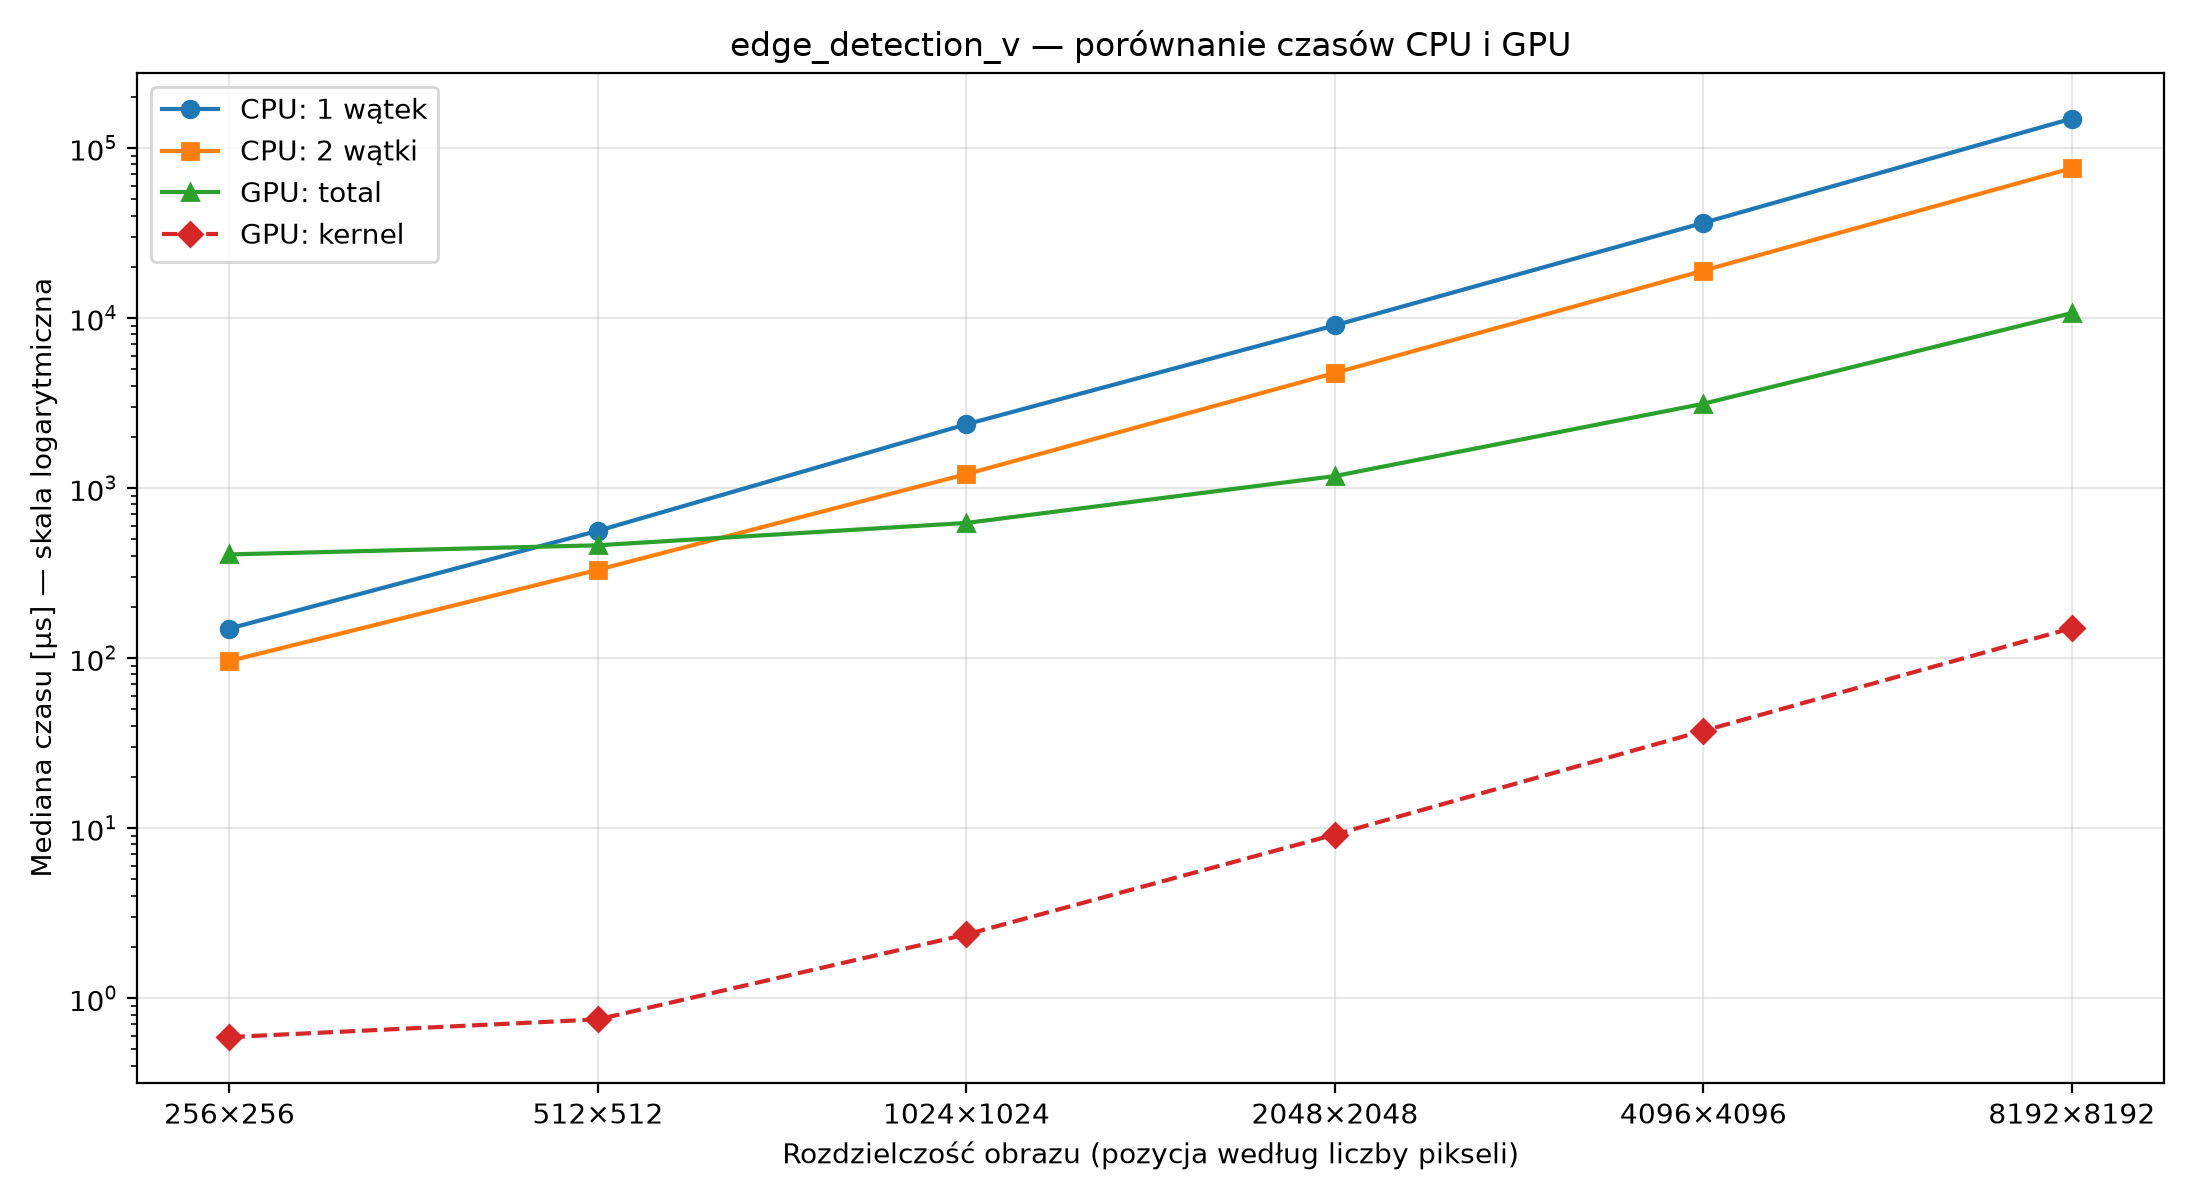
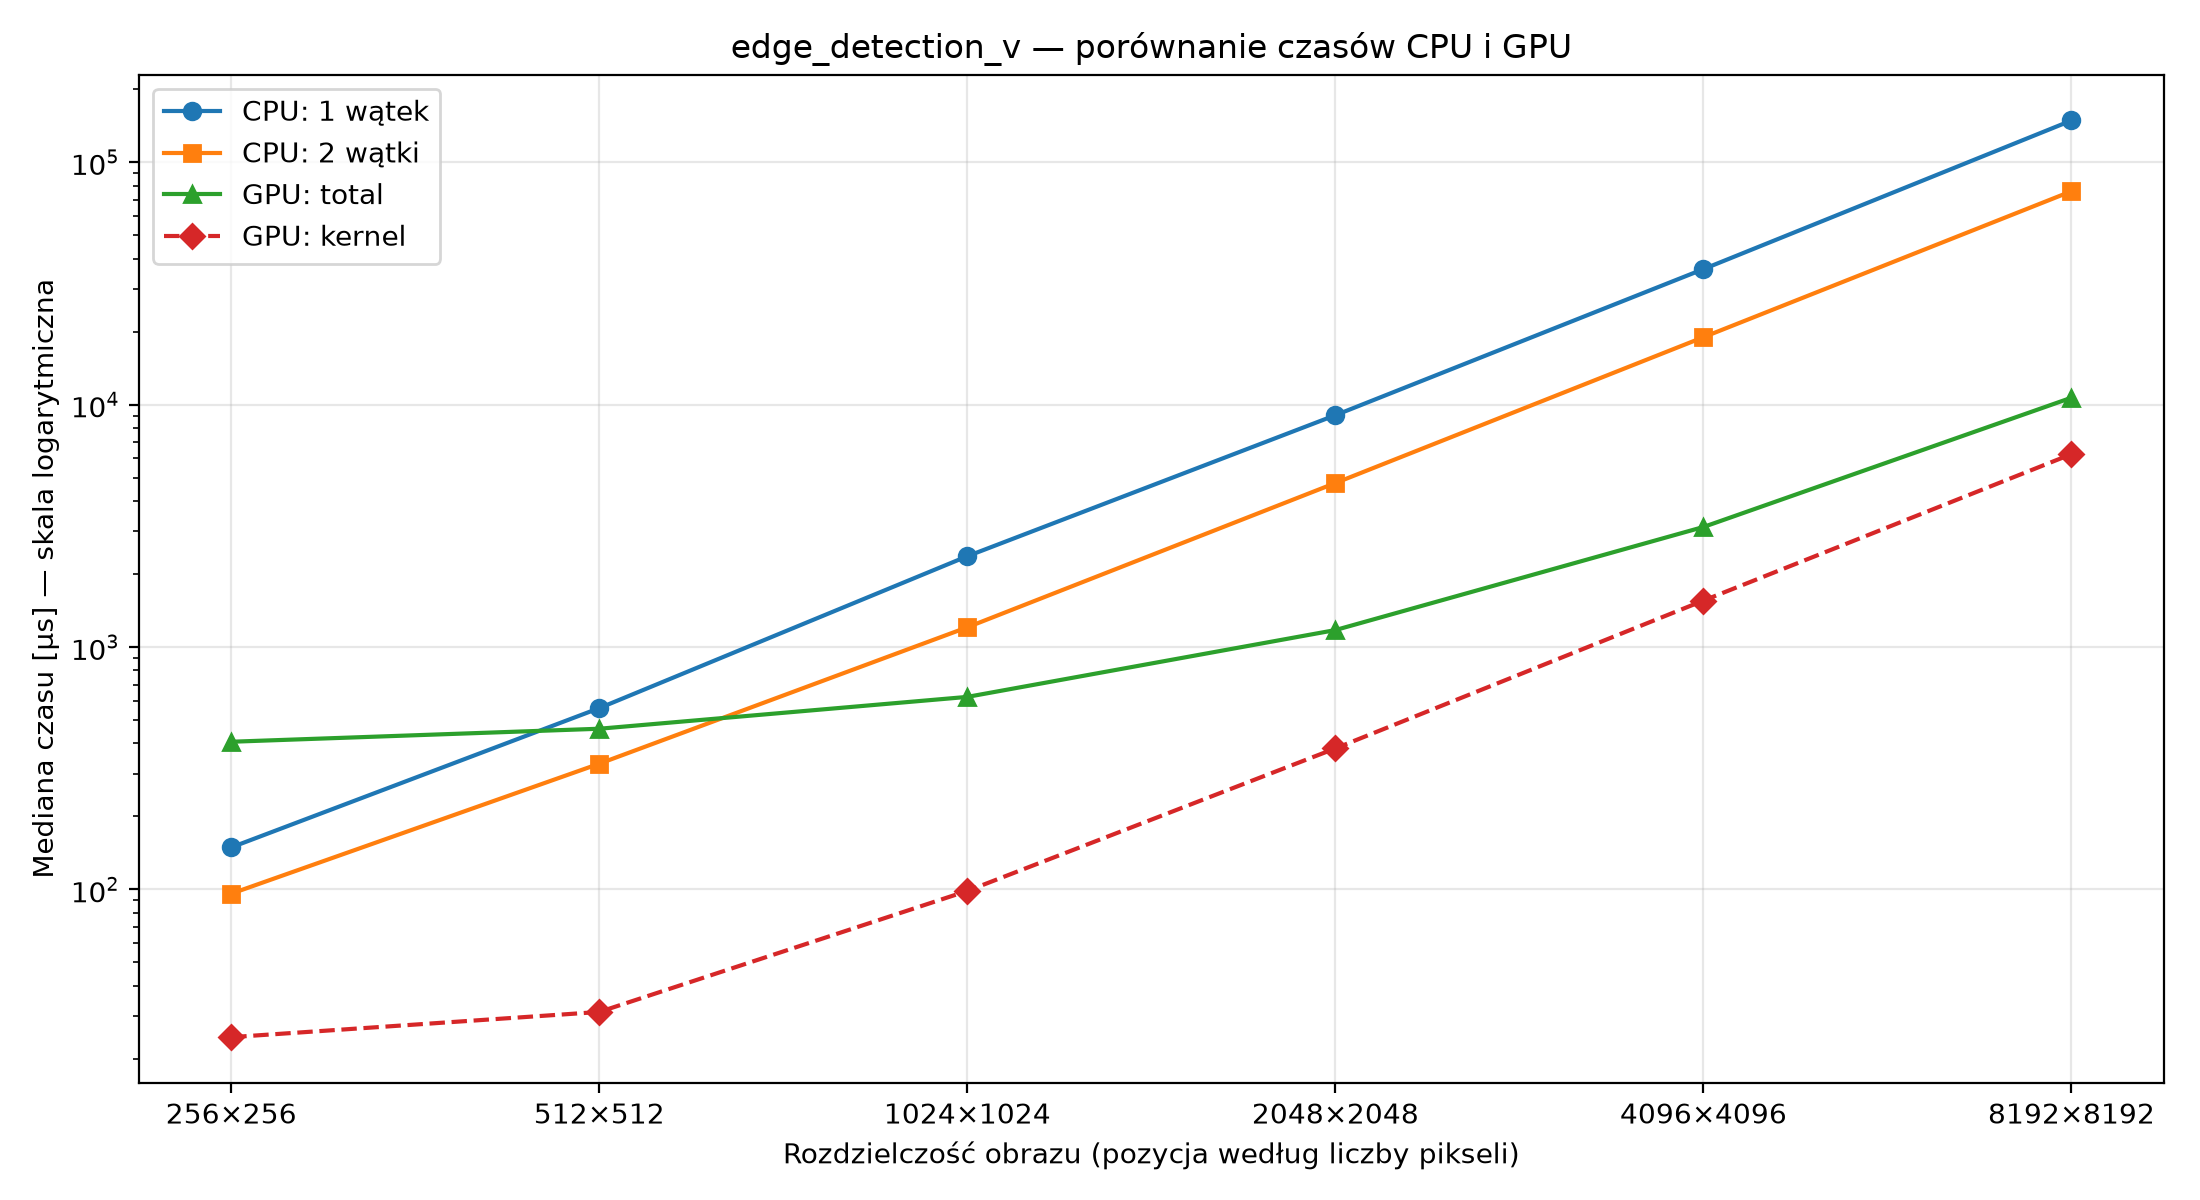
Fix kernel timing on Apple (event timestamps are mach ticks, not ns), correct saved kernel times and regenerate plots. Keep Otsu processing on GPU and benchmark with and without data transfers

diff --git a/src/otsu.cpp b/src/otsu.cpp
@@ -99,11 +99,17 @@ OtsuGPU::OtsuGPU(const Image& image)
         checkCL(error, "clCreateBuffer");
         histogramBuffer = clCreateBuffer(cl.context, CL_MEM_READ_WRITE, 256 * sizeof(cl_uint), nullptr, &error);
         checkCL(error, "clCreateBuffer");
+        thresholdBuffer = clCreateBuffer(cl.context, CL_MEM_READ_WRITE, sizeof(cl_int), nullptr, &error);
+        checkCL(error, "clCreateBuffer");
         outputBuffer = clCreateBuffer(cl.context, CL_MEM_WRITE_ONLY, pixelCount, nullptr, &error);
         checkCL(error, "clCreateBuffer");
         histogramKernel = clCreateKernel(cl.program, "histogramLocalKernel", &error);
         checkCL(error, "clCreateKernel");
         thresholdKernel = clCreateKernel(cl.program, "thresholdKernel", &error);
+        checkCL(error, "clCreateKernel");
+        otsuThresholdKernel = clCreateKernel(cl.program, "otsuThresholdKernel", &error);
+        checkCL(error, "clCreateKernel");
+        clearHistogramKernel = clCreateKernel(cl.program, "clearHistogramKernel", &error);
         checkCL(error, "clCreateKernel");
 
         int Npixels = static_cast<int>(pixelCount);
@@ -113,6 +119,11 @@ OtsuGPU::OtsuGPU(const Image& image)
         checkCL(clSetKernelArg(thresholdKernel, 0, sizeof(cl_mem), &inputBuffer), "clSetKernelArg");
         checkCL(clSetKernelArg(thresholdKernel, 1, sizeof(cl_mem), &outputBuffer), "clSetKernelArg");
         checkCL(clSetKernelArg(thresholdKernel, 2, sizeof(int), &Npixels), "clSetKernelArg");
+        checkCL(clSetKernelArg(thresholdKernel, 3, sizeof(cl_mem), &thresholdBuffer), "clSetKernelArg");
+        checkCL(clSetKernelArg(otsuThresholdKernel, 0, sizeof(cl_mem), &histogramBuffer), "clSetKernelArg");
+        checkCL(clSetKernelArg(otsuThresholdKernel, 1, sizeof(cl_mem), &thresholdBuffer), "clSetKernelArg");
+        checkCL(clSetKernelArg(clearHistogramKernel, 0, sizeof(cl_mem), &histogramBuffer), "clSetKernelArg");
+
     } catch (...) {
         release();
         throw;
@@ -125,32 +136,49 @@ void OtsuGPU::release() {
     if (inputBuffer) clReleaseMemObject(inputBuffer);
     if (histogramBuffer) clReleaseMemObject(histogramBuffer);
     if (outputBuffer) clReleaseMemObject(outputBuffer);
+    if (thresholdBuffer) clReleaseMemObject(thresholdBuffer);
+    if (otsuThresholdKernel) clReleaseKernel(otsuThresholdKernel);
+    if (clearHistogramKernel) clReleaseKernel(clearHistogramKernel);
 }
 
 OtsuGPU::~OtsuGPU() {
     release();
 }
 
-// histogram on GPU -> Otsu threshold on CPU -> thresholding on GPU, the image is sent to the GPU only once
-Histogram OtsuGPU::run(const Image& image, Image& output, cl_event* histogramEvent, cl_event* thresholdEvent) {
-    const size_t localSize = 256;
-    const size_t globalSize = 256*localSize; // 256 work-groups, so every GPU core gets several of them, with only 2 groups most cores stay idle
-    if (image.pixels.size() != pixelCount || output.pixels.size() != pixelCount) {
+// histogram, Otsu threshold and thresholding all on GPU: the image is sent once and only the result comes back
+void OtsuGPU::run(const Image& image, Image& output, cl_event* histogramEvent, cl_event* otsuThresholdEvent, cl_event* thresholdEvent) {
+    upload(image);
+    compute(histogramEvent, otsuThresholdEvent, thresholdEvent);
+    download(output);
+}
+
+void OtsuGPU::upload(const Image& image) {
+    if (image.pixels.size() != pixelCount) {
         throw std::runtime_error("Image size does not match the GPU buffers");
     }
-    std::array<cl_uint, 256> counts{};
     checkCL(clEnqueueWriteBuffer(cl.queue, inputBuffer, CL_TRUE, 0, pixelCount, image.pixels.data(), 0, nullptr, nullptr), "clEnqueueWriteBuffer");
-    checkCL(clEnqueueWriteBuffer(cl.queue, histogramBuffer, CL_TRUE, 0, sizeof(counts), counts.data(), 0, nullptr, nullptr), "clEnqueueWriteBuffer");
-    checkCL(clEnqueueNDRangeKernel(cl.queue, histogramKernel, 1, nullptr, &globalSize, &localSize, 0, nullptr, histogramEvent), "clEnqueueNDRangeKernel");
-    checkCL(clEnqueueReadBuffer(cl.queue, histogramBuffer, CL_TRUE, 0, sizeof(counts), counts.data(), 0, nullptr, nullptr), "clEnqueueReadBuffer"); // CL_TRUE means: dont return from clEnqueueReadBuffer until the readout is done
+}
 
-    Histogram histogram{};
-    std::copy(counts.begin(), counts.end(), histogram.begin());
-    int threshold = calculateOtsuThreshold(histogram);
-    checkCL(clSetKernelArg(thresholdKernel, 3, sizeof(int), &threshold), "clSetKernelArg");
+// only enqueues the work, the queue runs commands in order, so nothing has to wait between the kernels
+void OtsuGPU::compute(cl_event* histogramEvent, cl_event* otsuThresholdEvent, cl_event* thresholdEvent) {
+    const size_t localSize = 256;
+    const size_t globalSize = 256*localSize; // 256 work-groups, so every GPU core gets several of them, with only 2 groups most cores stay idle
+    // the histogram is zeroed on the GPU, so not even the 256 counters are copied from the CPU
+    checkCL(clEnqueueNDRangeKernel(cl.queue, clearHistogramKernel, 1, nullptr, &localSize, nullptr, 0, nullptr, nullptr), "clEnqueueNDRangeKernel");
+    checkCL(clEnqueueNDRangeKernel(cl.queue, histogramKernel, 1, nullptr, &globalSize, &localSize, 0, nullptr, histogramEvent), "clEnqueueNDRangeKernel");
+    checkCL(clEnqueueNDRangeKernel(cl.queue, otsuThresholdKernel, 1, nullptr, &localSize, &localSize, 0, nullptr, otsuThresholdEvent), "clEnqueueNDRangeKernel");
     checkCL(clEnqueueNDRangeKernel(cl.queue, thresholdKernel, 1, nullptr, &pixelCount, nullptr, 0, nullptr, thresholdEvent), "clEnqueueNDRangeKernel");
+}
+
+void OtsuGPU::finish() {
+    checkCL(clFinish(cl.queue), "clFinish"); // waits until the GPU has done everything that was enqueued
+}
+
+void OtsuGPU::download(Image& output) {
+    if (output.pixels.size() != pixelCount) {
+        throw std::runtime_error("Image size does not match the GPU buffers");
+    }
     checkCL(clEnqueueReadBuffer(cl.queue, outputBuffer, CL_TRUE, 0, pixelCount, output.pixels.data(), 0, nullptr, nullptr), "clEnqueueReadBuffer"); // CL_TRUE means: dont return from clEnqueueReadBuffer until the readout is done
-    return histogram;
 }
 
 Image otsuSegmentationGPU(const Image& image) {

diff --git a/tests/otsu_test.cpp b/tests/otsu_test.cpp
@@ -24,21 +24,33 @@ int main(int argc, char* argv[]) {
 
         OtsuGPU gpu(image);
         Image gpuResult = image;
-        Histogram gpuHistogram{};
         cl_event histogramEvent = nullptr;
+        cl_event otsuThresholdEvent = nullptr;
         cl_event thresholdEvent = nullptr;
         std::vector<double> kernelTimes;
-        double gpuTotal = measure([&] { gpuHistogram = gpu.run(image, gpuResult, &histogramEvent, &thresholdEvent); },
+        double gpuTotal = measure([&] { gpu.run(image, gpuResult, &histogramEvent, &otsuThresholdEvent, &thresholdEvent); },
                                   options.repeats, [] {}, [&](int repeat) {
-            double time = kernelTimeUs(histogramEvent) + kernelTimeUs(thresholdEvent);
+            // the three kernels of the algorithm, the tiny kernel that zeroes the histogram is not counted
+            double time = kernelTimeUs(histogramEvent) + kernelTimeUs(otsuThresholdEvent) + kernelTimeUs(thresholdEvent);
             checkCL(clReleaseEvent(histogramEvent), "clReleaseEvent");
+            checkCL(clReleaseEvent(otsuThresholdEvent), "clReleaseEvent");
             checkCL(clReleaseEvent(thresholdEvent), "clReleaseEvent");
             if (repeat >= 0) kernelTimes.push_back(time);
-            if (gpuHistogram != histogram || gpuResult.pixels != cpuResult.pixels) {
+            if (gpuResult.pixels != cpuResult.pixels) {
                 throw std::runtime_error("GPU and CPU Otsu results differ");
             }
         });
         double gpuKernel = median(kernelTimes);
+
+        // the image stays on the GPU: it is sent once before the measurement and the result is read once after it,
+        // so only the three kernels, their launch and the waiting for the GPU are measured
+        gpu.upload(image);
+        double gpuNoCopy = measure([&] { gpu.compute(); gpu.finish(); }, options.repeats);
+        Image gpuNoCopyResult = image; // a fresh image, so the check below really tests what came back from the GPU
+        gpu.download(gpuNoCopyResult);
+        if (gpuNoCopyResult.pixels != cpuResult.pixels) {
+            throw std::runtime_error("GPU without copying and CPU Otsu results differ");
+        }
         int threshold = calculateOtsuThreshold(histogram);
 
         // CPU and GPU results are identical at this point, so one image and one histogram are enough
@@ -58,10 +70,10 @@ int main(int argc, char* argv[]) {
         row << std::setprecision(12) << std::quoted(options.image, '"', '"') << ','
             << image.width << ',' << image.height << ',' << threshold << ','
             << options.threads << ',' << options.repeats << ','
-            << cpu1 << ',' << cpuN << ',' << overheadN << ',' << gpuKernel << ',' << gpuTotal;
-        appendCsv(options.output, "image,width,height,threshold,threads,repeats,cpu_1t_us,cpu_nt_us,overhead_nt_us,gpu_kernel_us,gpu_total_us", row.str());
-        std::cout << "Median CPU1 / CPU" << options.threads << " / GPU total / GPU kernels [us]: "
-                  << cpu1 << " / " << cpuN << " / " << gpuTotal << " / " << gpuKernel << '\n';
+            << cpu1 << ',' << cpuN << ',' << overheadN << ',' << gpuKernel << ',' << gpuTotal << ',' << gpuNoCopy;
+        appendCsv(options.output, "image,width,height,threshold,threads,repeats,cpu_1t_us,cpu_nt_us,overhead_nt_us,gpu_kernel_us,gpu_total_us,gpu_no_copy_us", row.str());
+        std::cout << "Median CPU1 / CPU" << options.threads << " / GPU total / GPU without copying / GPU kernels [us]: "
+                  << cpu1 << " / " << cpuN << " / " << gpuTotal << " / " << gpuNoCopy << " / " << gpuKernel << '\n';
         return 0;
     } catch (const std::exception& error) {
         std::cerr << error.what() << '\n';

diff --git a/helpers/benchmark_graphs.py b/helpers/benchmark_graphs.py
@@ -18,7 +18,8 @@ def plot_benchmarks(default_file, title, parameters=(), numeric_parameters=(),
     integer_columns = ["width", "height", "threads", "repeats"]
     time_columns = ["cpu_1t_us", "cpu_nt_us", "gpu_kernel_us", "gpu_total_us"]
     overhead_columns = ["overhead_nt_us"] if "overhead_nt_us" in data.columns else []
-    positive_columns = [*integer_columns, *time_columns]
+    no_copy_columns = ["gpu_no_copy_us"] if "gpu_no_copy_us" in data.columns else []
+    positive_columns = [*integer_columns, *time_columns, *no_copy_columns]
     numeric_columns = [*positive_columns, *overhead_columns, *numeric_parameters]
     data[numeric_columns] = data[numeric_columns].apply(pd.to_numeric)
     if data.empty or data[["image", *parameters]].isna().any().any():
@@ -57,6 +58,9 @@ def plot_benchmarks(default_file, title, parameters=(), numeric_parameters=(),
                     nonpositive_corrected |= (corrected <= 0).any()
         ax.plot(baseline["pixels"], baseline["gpu_total_us"], "^-",
                 label="GPU: zapis, obliczenia i odczyt")
+        if no_copy_columns:
+            ax.plot(baseline["pixels"], baseline["gpu_no_copy_us"], "v-",
+                    label="GPU: bez kopiowania (obraz na karcie)")
         ax.plot(baseline["pixels"], baseline["gpu_kernel_us"], "D--", label=kernel_label)
         labels = baseline.groupby("pixels", sort=True).apply(
             lambda rows: " / ".join(f"{w}×{h}" for w, h in zip(rows["width"], rows["height"])))

diff --git a/include/otsu.hpp b/include/otsu.hpp
@@ -16,15 +16,24 @@ public:
     ~OtsuGPU();
     OtsuGPU(const OtsuGPU&) = delete;
     OtsuGPU& operator=(const OtsuGPU&) = delete;
-    Histogram run(const Image& image, Image& output, cl_event* histogramEvent = nullptr, cl_event* thresholdEvent = nullptr);
+    void run(const Image& image, Image& output, cl_event* histogramEvent = nullptr,
+             cl_event* otsuThresholdEvent = nullptr, cl_event* thresholdEvent = nullptr);
+    // run split into parts, so the computation can be measured without copying the image to and from the GPU
+    void upload(const Image& image);
+    void compute(cl_event* histogramEvent = nullptr, cl_event* otsuThresholdEvent = nullptr, cl_event* thresholdEvent = nullptr);
+    void finish();
+    void download(Image& output);
 
 private:
     void release();
     OpenCL cl;
     cl_kernel histogramKernel = nullptr;
     cl_kernel thresholdKernel = nullptr;
+    cl_kernel otsuThresholdKernel = nullptr;
+    cl_kernel clearHistogramKernel = nullptr;
     cl_mem inputBuffer = nullptr;
     cl_mem histogramBuffer = nullptr;
     cl_mem outputBuffer = nullptr;
+    cl_mem thresholdBuffer = nullptr;
     std::size_t pixelCount;
 };

diff --git a/src/opencl_utils.cpp b/src/opencl_utils.cpp
@@ -3,6 +3,9 @@
 #include <sstream>
 #include <stdexcept>
 #include <vector>
+#ifdef __APPLE__
+#include <mach/mach_time.h>
+#endif
 
 void checkCL(cl_int error, const char* operation) {
     if (error != CL_SUCCESS) {
@@ -14,7 +17,15 @@ double kernelTimeUs(cl_event event) {
     cl_ulong start, end;
     checkCL(clGetEventProfilingInfo(event, CL_PROFILING_COMMAND_START, sizeof(start), &start, nullptr), "clGetEventProfilingInfo");
     checkCL(clGetEventProfilingInfo(event, CL_PROFILING_COMMAND_END, sizeof(end), &end, nullptr), "clGetEventProfilingInfo");
-    return (end - start) / 1000.0;
+    double nanoseconds = static_cast<double>(end - start);
+#ifdef __APPLE__
+    // Apple's OpenCL returns these timestamps in mach_absolute_time ticks, not in nanoseconds as the standard says;
+    // on Apple Silicon one tick is 125/3 = 41.67 ns, so without this conversion kernel times were about 42 times too small
+    mach_timebase_info_data_t timebase;
+    mach_timebase_info(&timebase);
+    nanoseconds = nanoseconds * timebase.numer / timebase.denom;
+#endif
+    return nanoseconds / 1000.0;
 }
 
 OpenCL::OpenCL(const std::string& kernelPath) {

diff --git a/helpers/otsu_local_histogram.py b/helpers/otsu_local_histogram.py
@@ -4,14 +4,15 @@ from pathlib import Path
 import matplotlib.pyplot as plt
 
 resolutions = ["1024×1024", "4096×4096", "8192×8192"]
+# kernel times in microseconds, already converted from Apple's event ticks (×125/3, see kernelTimeUs)
 variants = {
-    "globalne atomiki": [4.06, 66.25, 285.20],
-    "lokalny histogram, 2 grupy": [13.04, 237.36, 950.31],
-    "lokalny histogram, 256 grup": [1.70, 26.39, 108.10],
+    "globalne atomiki": [169.4, 2760.5, 11883.5],
+    "lokalny histogram, 2 grupy": [543.2, 9890.2, 39596.4],
+    "lokalny histogram, 256 grup": [70.9, 1099.7, 4504.3],
 }
 groups = [2, 14, 56, 224, 1024]  # 8192×8192, measured in the same run as the global atomics value below
-groupTimes = [950.31, 209.65, 131.34, 107.44, 105.17]
-globalAtomics8192 = 285.20
+groupTimes = [39596.4, 8735.5, 5472.5, 4476.6, 4381.9]
+globalAtomics8192 = 11883.5
 
 project = Path(__file__).resolve().parents[1]
 parser = argparse.ArgumentParser(description="Otsu histogram on GPU: global atomics vs local histogram per work-group.")

diff --git a/helpers/otsu_graphs.py b/helpers/otsu_graphs.py
@@ -1,4 +1,4 @@
 from benchmark_graphs import plot_benchmarks
 
-plot_benchmarks("otsu_scaling.csv", "Otsu", kernel_label="GPU: suma czasów dwóch kerneli",
+plot_benchmarks("otsu_scaling.csv", "Otsu", kernel_label="GPU: suma czasów trzech kerneli",
                 overhead_batches=2)
